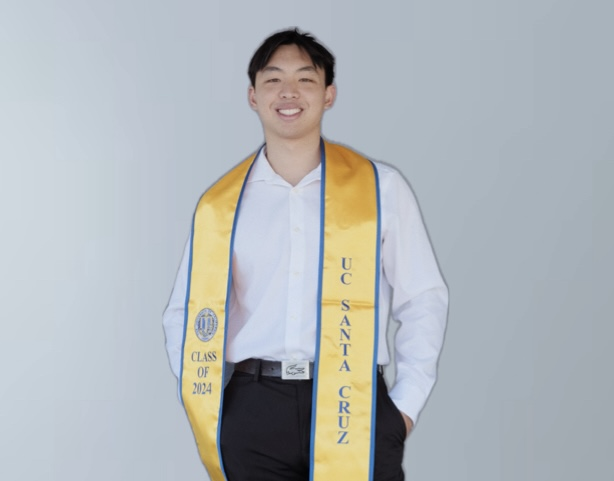
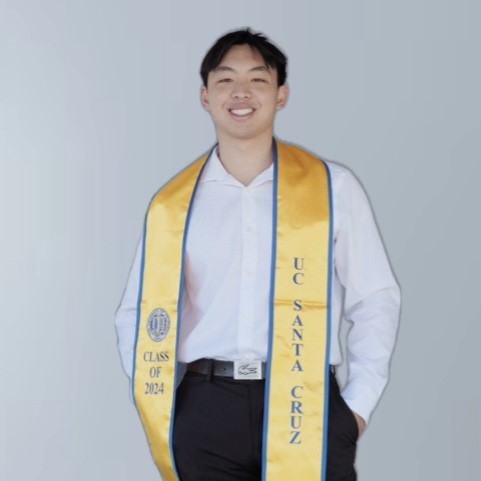
updated about section
added background image and changed layout

Changed region(s): [[0.2495, 0.0312, 0.842, 1.0]]

diff --git a/src/app/components/sections/About.tsx b/src/app/components/sections/About.tsx
@@ -25,27 +25,55 @@ const About = () => {
   }, []);
 
   return (
-    <section id="about" className="hero bg-gray-900 text-white py-20 mt-10">
-      <div className="container mx-auto text-center flex flex-col items-center">
-        <Image src="/my_photo2.jpg" alt="my image" height={800} width={400} className="mb-6" />
-        <h2 className="text-4xl font-bold mb-4">Hello, I&apos;m Thomas</h2>
-        <h3 className="text-xl font-bold mb-4">
-          <span ref={typedElement}></span>
-        </h3>
-        <p className="text-lg mb-8 w-1/2">I am a recent Computer Science graduate from the University of California, Santa Cruz. I am a Software Engineer with a focus on web development, but would like to also explore new areas.</p>
+    <section id="about" className="hero bg-gray-900 text-white py-20 mt-10 relative">
+      {/* Background image */}
+      <div
+        className="absolute inset-0 bg-cover bg-center"
+        style={{ backgroundImage: "url('/sign_hill.JPG')" }}
+      ></div>
 
-        <h3 className="text-xl font-bold mb-4">Skills</h3>
-        <div className="flex flex-wrap justify-center mb-8">
-          {['C++', 'C', 'Python', 'Node.js', 'JavaScript', 'React', 'Next.js', 'Expo', 'React Native', 'TypeScript', 'Vue.js', 'Jest', 'HTML', 'CSS', 'SQL', 'Firebase'].map(skill => (
-            <span key={skill} className="bg-gray-800 text-white py-2 px-4 m-2 rounded-lg hover:scale-110 duration-300">
-              {skill}
-            </span>
-          ))}
+      {/* Semi-transparent overlay */}
+      <div className="absolute inset-0 bg-black bg-opacity-50"></div>
+
+      {/* Content */}
+      <div className="container mx-auto flex flex-col md:flex-row items-center justify-center relative z-10 py-20 px-4 md:px-8 lg:px-12">
+        {/* Text on the left for larger screens, below image for smaller screens */}
+        <div className="order-2 md:order-1 text-center md:text-left w-full md:w-2/3 lg:w-3/5">
+          <h2 className="text-4xl font-bold mb-4">Hello, I&apos;m Thomas</h2>
+          <h3 className="text-xl font-bold mb-4">
+            <span ref={typedElement}></span>
+          </h3>
+          <p className="text-lg mb-8">
+            I am a recent Computer Science graduate from the University of California, Santa Cruz. I am a Software Engineer with a focus on web development, but would like to also explore new areas.
+          </p>
+          <p className="text-lg mb-8">
+            I have also recently got into drone photography so feel free to check out my gallery!
+          </p>
+
+          <h3 className="text-xl font-bold mb-4">Skills/Languages/Tools/Frameworks</h3>
+          <div className="flex flex-wrap justify-center md:justify-start mb-8">
+            {['C++', 'C', 'Python', 'Node.js', 'JavaScript', 'React', 'Next.js', 'Expo', 'React Native', 'TypeScript', 'Vue.js', 'Jest', 'HTML', 'CSS', 'SQL', 'Firebase', 'Git'].map(skill => (
+              <span key={skill} className="bg-gray-800 text-white py-2 px-4 m-2 rounded-lg hover:scale-110 duration-300">
+                {skill}
+              </span>
+            ))}
+          </div>
+
+          <a href="https://github.com/ttoy12/Resume/blob/main/ThomasToy_Resume.pdf" target="_blank" rel="noopener noreferrer" className="hover:text-blue-500">
+            Click here to checkout my resume
+          </a>
         </div>
 
-        <a href="https://github.com/ttoy12/Resume/blob/main/ThomasToy_Resume.pdf" target="_blank" rel="noopener noreferrer" className="hover:text-blue-500">
-          Click here to checkout my resume
-        </a>
+        {/* Image on the right for larger screens, top for smaller screens */}
+        <div className="order-1 md:order-2 rounded-full overflow-hidden w-full md:w-1/3 lg:w-2/5 max-w-[350px]">
+          <Image
+            src="/my_photo2.jpg"
+            alt="my image"
+            height={350}
+            width={350}
+            className="object-cover w-full h-full"
+          />
+        </div>
       </div>
     </section>
   )

diff --git a/src/app/components/sections/Header.tsx b/src/app/components/sections/Header.tsx
@@ -2,11 +2,11 @@ import React from 'react'
 import Image from 'next/image';
 
 interface HeaderProps {
-    menuOpen: boolean;
-    toggleMenu: () => void;
+  menuOpen: boolean;
+  toggleMenu: () => void;
 }
 
-const Header: React.FC<HeaderProps> = ({ menuOpen, toggleMenu}) => {
+const Header: React.FC<HeaderProps> = ({ menuOpen, toggleMenu }) => {
   const scrollToSection = (sectionId: string) => {
     const element = document.getElementById(sectionId);
     if (element) {
@@ -23,7 +23,7 @@ const Header: React.FC<HeaderProps> = ({ menuOpen, toggleMenu}) => {
   };
 
   return (
-    <header className="bg-blue-800 text-white p-6 fixed top-0 left-0 w-full z-10">
+    <header className="bg-black text-white p-6 fixed top-0 left-0 w-full z-10 z-50">
       <div className="container mx-auto flex justify-between items-center">
         <Image src="/logo_no_bg.jpg" height={45} width={45} alt="logo" />
         <button
@@ -46,11 +46,10 @@ const Header: React.FC<HeaderProps> = ({ menuOpen, toggleMenu}) => {
           </svg>
         </button>
         <nav
-          className={`${
-            menuOpen ? 'block' : 'hidden'
-          } md:flex space-x-4 absolute md:static w-full md:w-auto left-0 top-full md:top-auto`}
+          className={`${menuOpen ? 'block' : 'hidden'
+            } md:flex space-x-4 absolute md:static w-full md:w-auto left-0 top-full md:top-auto`}
         >
-          <ul className="flex flex-col md:flex-row space-y-4 md:space-y-0 md:space-x-4 p-4 md:p-0 bg-blue-800">
+          <ul className="flex flex-col md:flex-row space-y-4 md:space-y-0 md:space-x-4 p-4 md:p-0 bg-black">
             <li className="text-xl">
               <button
                 className="px-3 py-2 border-b-2 border-transparent hover:border-yellow-400 transition-all duration-500"
@@ -73,6 +72,14 @@ const Header: React.FC<HeaderProps> = ({ menuOpen, toggleMenu}) => {
                 onClick={() => { scrollToSection('projects'); toggleMenu(); }}
               >
                 Projects
+              </button>
+            </li>
+            <li className="text-xl">
+              <button
+                className="px-3 py-2 border-b-2 border-transparent hover:border-yellow-400 transition-all duration-500"
+                onClick={() => { scrollToSection('gallery'); toggleMenu(); }}
+              >
+                Gallery
               </button>
             </li>
             <li className="text-xl">
